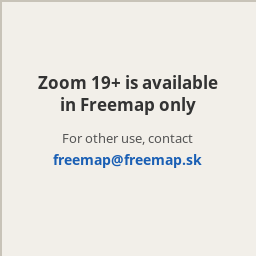
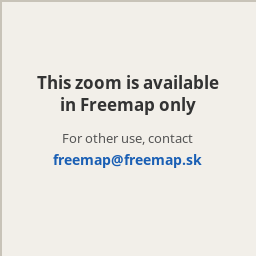
Tell an app how to add a token on a refused premium zoom
A refused tile shows another site the contact image, and an app (no token, a
bad one, or one without premium) how to get and add an app token. Both texts
are zoom-neutral.

Claude-Session: https://claude.ai/code/session_01J2rPmUi4qojV2sejQTJyA4

Changed region(s): [[0.1562, 0.2812, 0.875, 0.375]]

diff --git a/README.md b/README.md
@@ -268,8 +268,10 @@ Zooms 19+ of the base map, `/kst/` and the `/o/` overlays pass an `auth_request`
   minute per token in `/var/cache/nginx/outdoor-tile-auth`.
 - **Anything else** (a non-browser without a token) is refused.
 
-A refused tile is 401 or 403 with [premium-zoom.png](./etc/nginx/premium-zoom.png), which has
-to be deployed as `/var/www/outdoor-premium-zoom.png`. `token=` is masked in the access log.
+A refused tile is 401 or 403 with an image: [premium-zoom.png](./etc/nginx/premium-zoom.png)
+(contact us) for another site, [premium-zoom-token.png](./etc/nginx/premium-zoom-token.png)
+(add an app token) for an app. They are deployed as `/var/www/outdoor-premium-zoom.png` and
+`/var/www/outdoor-premium-zoom-token.png`. `token=` is masked in the access log.
 
 ## Systemd service
 
